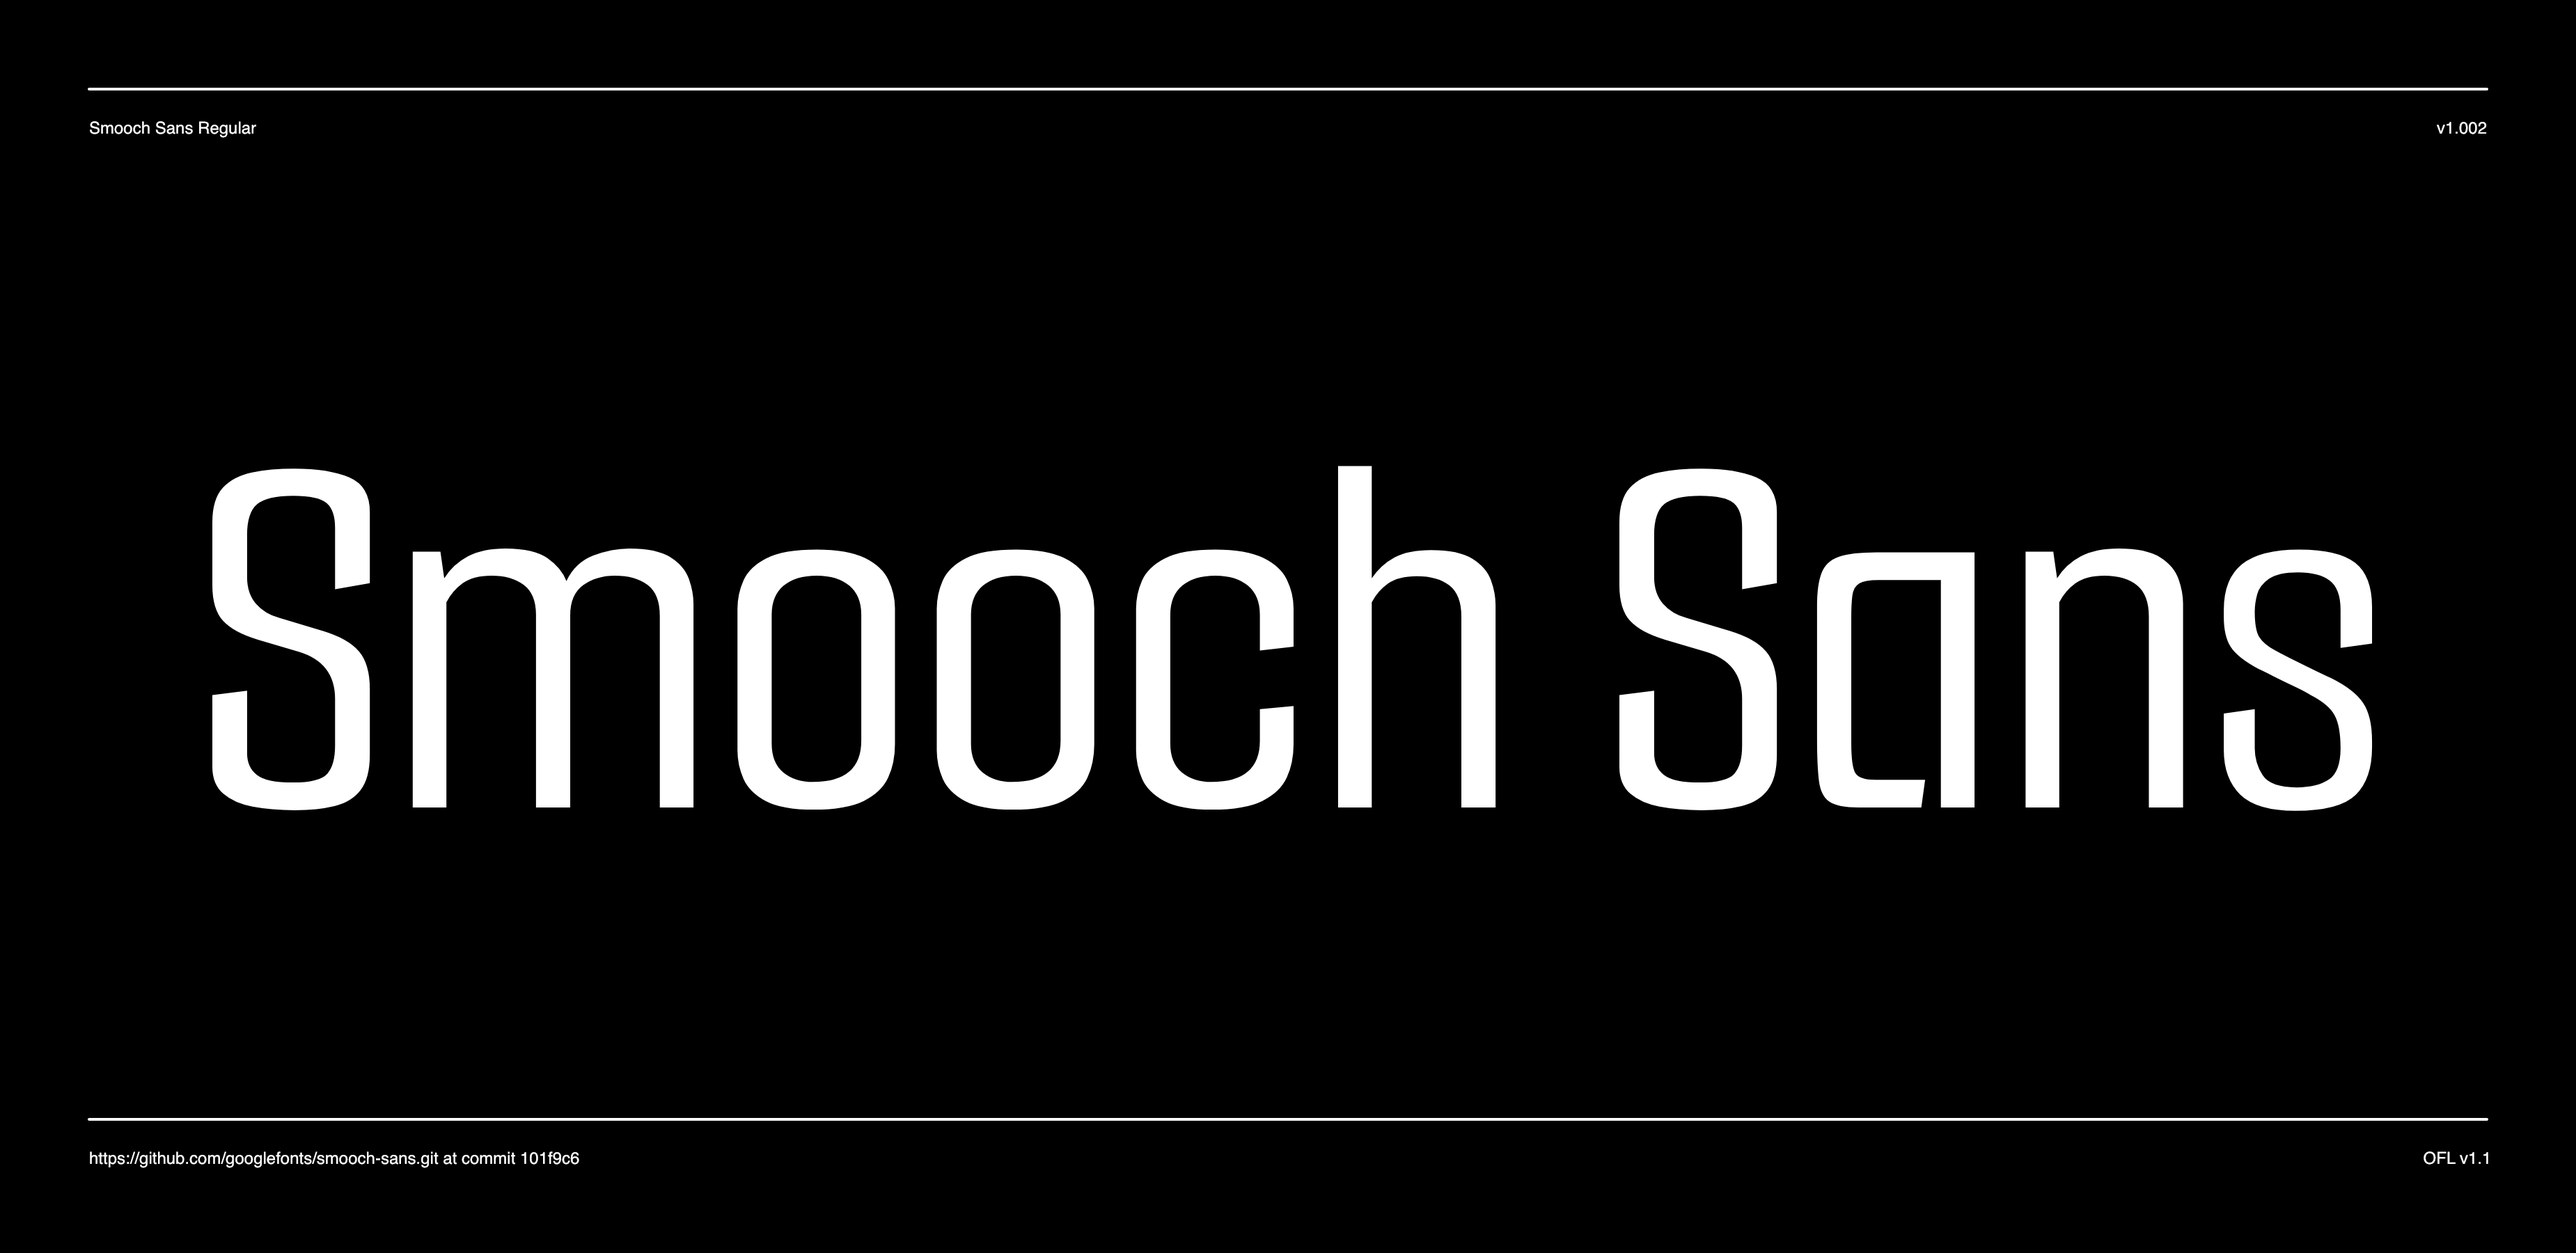
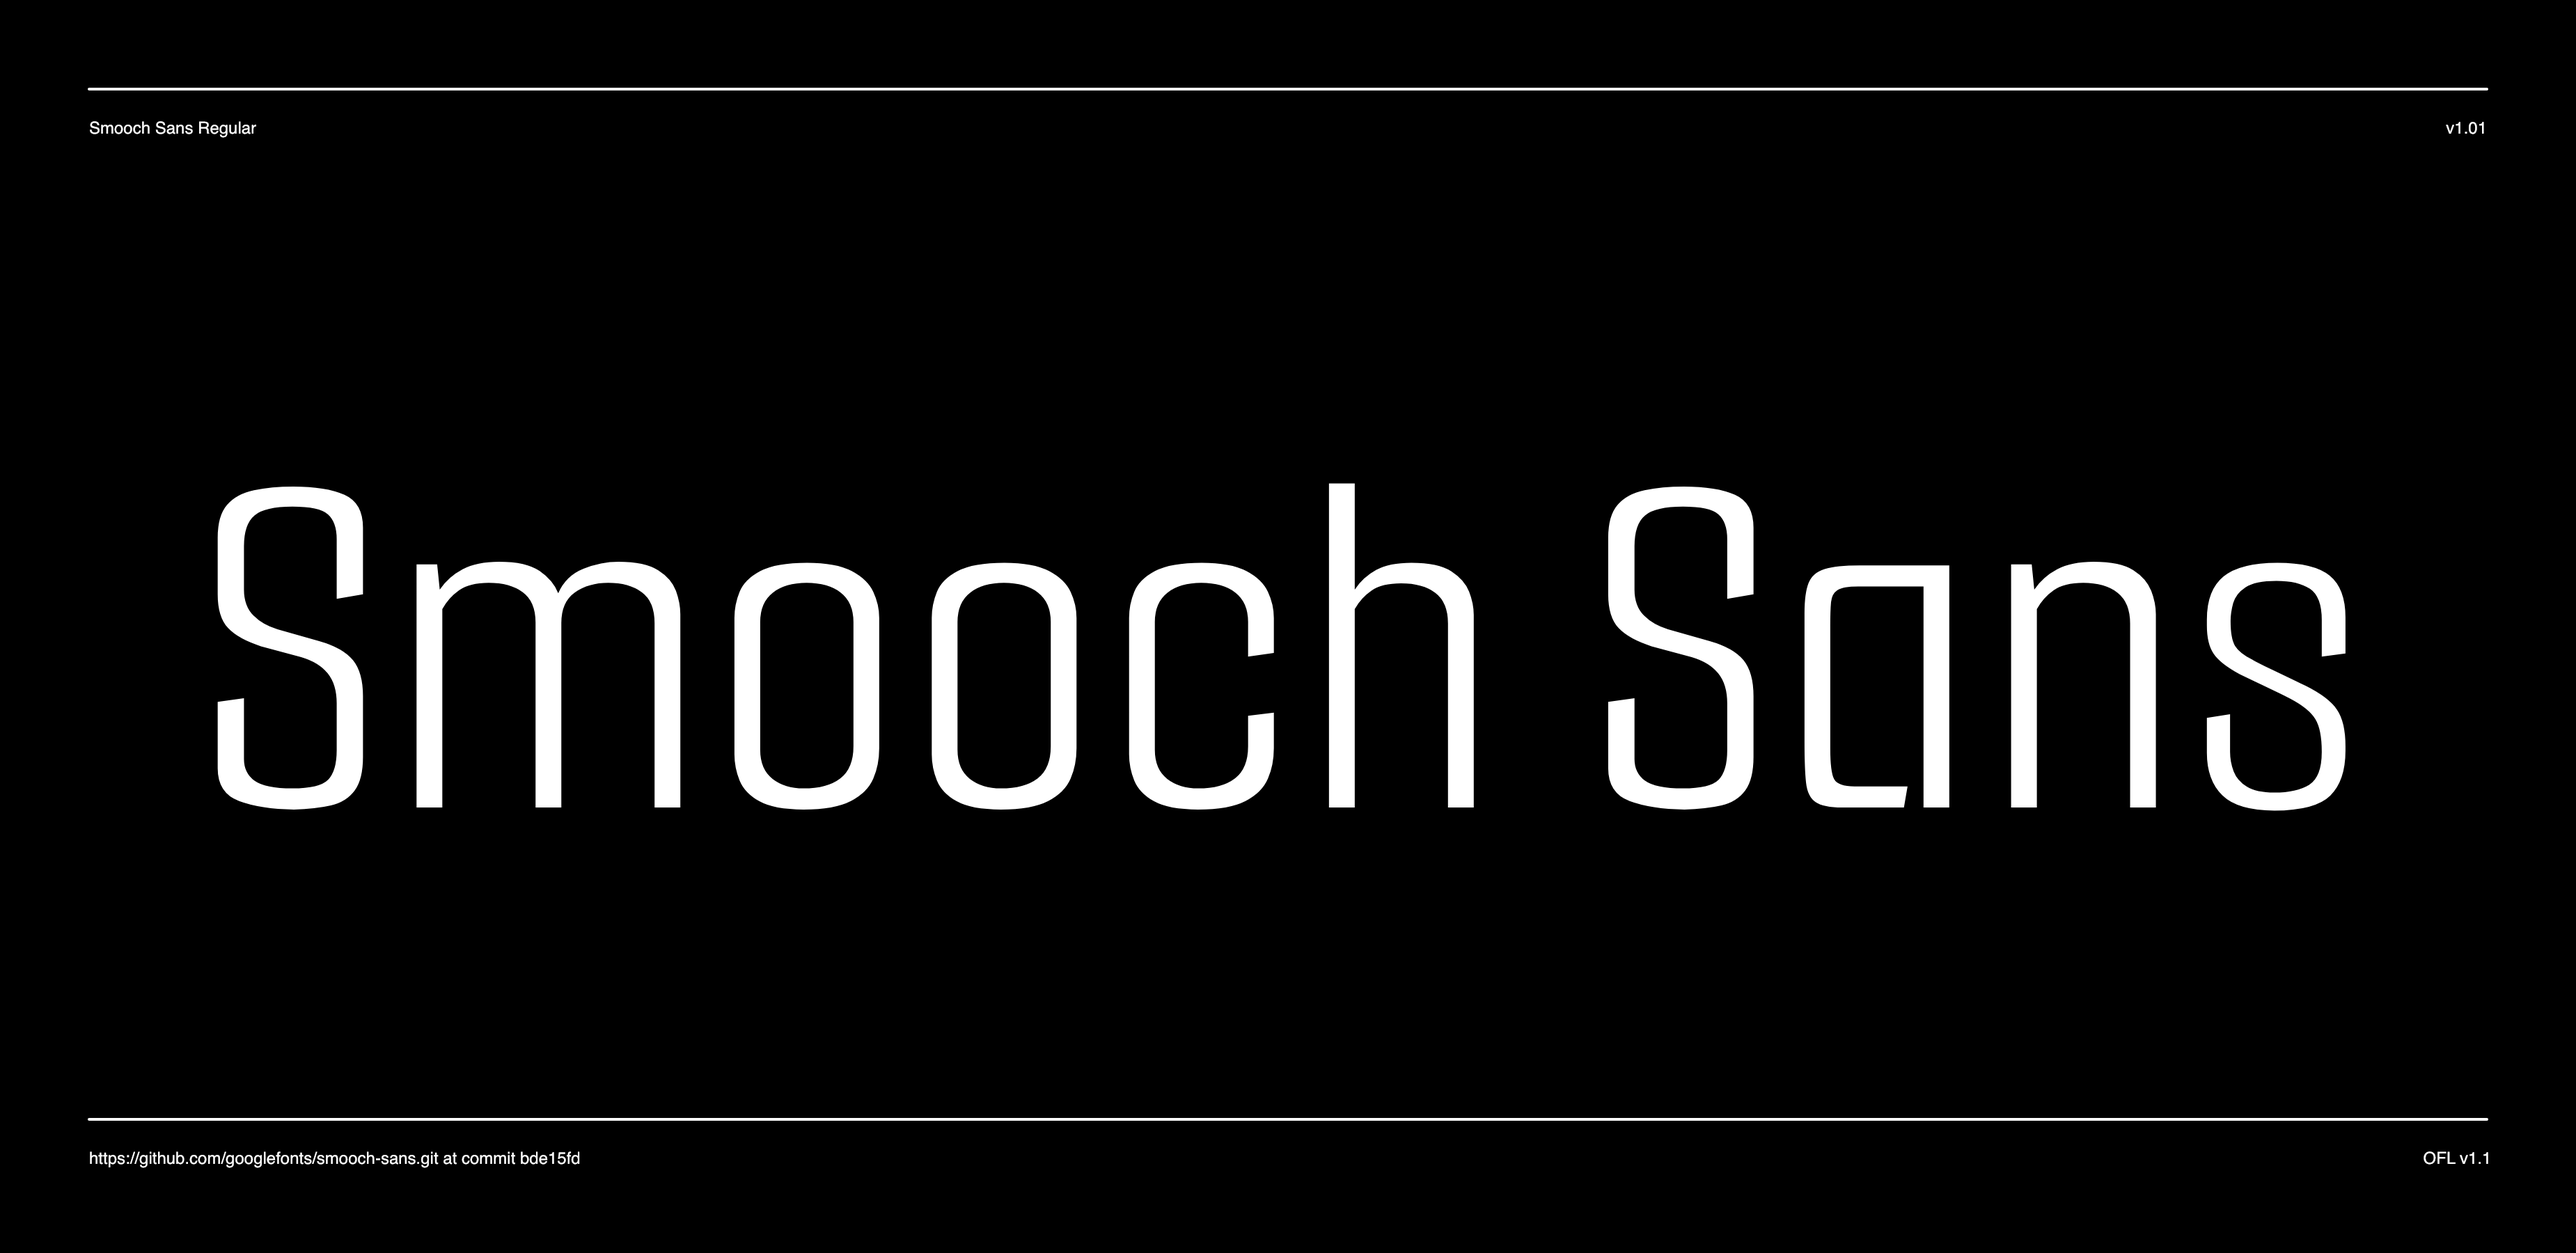
Description, Readme + sample image updated

diff --git a/DESCRIPTION.en_us.html b/DESCRIPTION.en_us.html
@@ -1,0 +1,9 @@
+<p>
+Smooch Sans was originally designed as a truncated font to be used to compliment the Smooch brush script file. It has been updated with an extensive character set and designed as a Variable font to a offer nine weight variations of this clean sans font. 
+</p>
+<p>
+It comes with Latin Character sets including Western, Central, and Vietnamese language support.
+</p>
+<p>
+To contribute, see <a href="https://github.com/googlefonts/smooch-sans" target="_blank">github.com/googlefonts/smooch-sans</a>.
+</p>

diff --git a/documentation/image1.py b/documentation/image1.py
@@ -21,7 +21,7 @@ FONT_LICENSE = "OFL v1.1"
 AUXILIARY_FONT = "Helvetica"
 AUXILIARY_FONT_SIZE = 24
 BIG_TEXT = "Smooch Sans"
-BIG_TEXT_FONT_SIZE = 780
+BIG_TEXT_FONT_SIZE = 740
 BIG_TEXT_SIDE_MARGIN = MARGIN * 2.2
 BIG_TEXT_BOTTOM_MARGIN = MARGIN * 5
 GRID_VIEW = False # Change this to "True" for a grid overlay

diff --git a/README.md b/README.md
@@ -1,6 +1,8 @@
 # Smooch Sans
 
-Variable font
+Smooch Sans was originally designed as a truncated font to be used to compliment the Smooch brush script file. It has been updated with an extensive character set and designed as a Variable font to a offer nine weight variations of this clean sans font. 
+
+It comes with Latin Character sets including Western, Central, and Vietnamese language support.
 
 ![Sample Image](documentation/image1.png)
 
